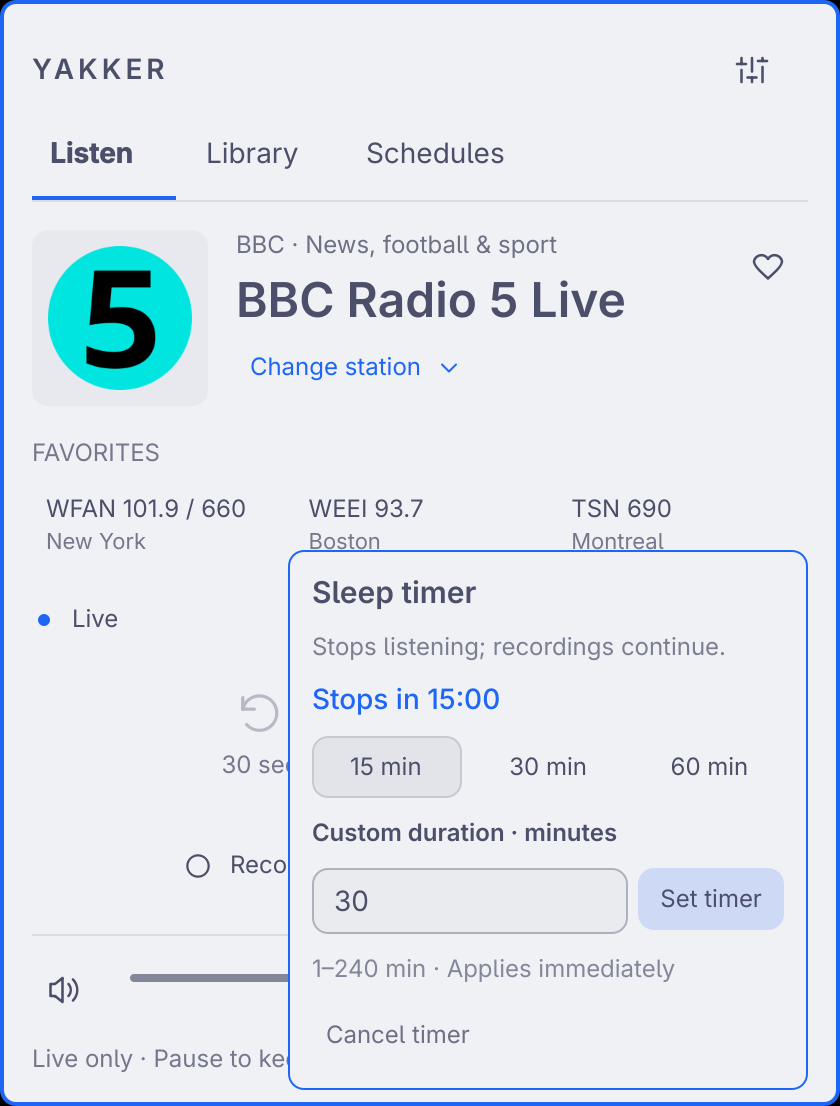
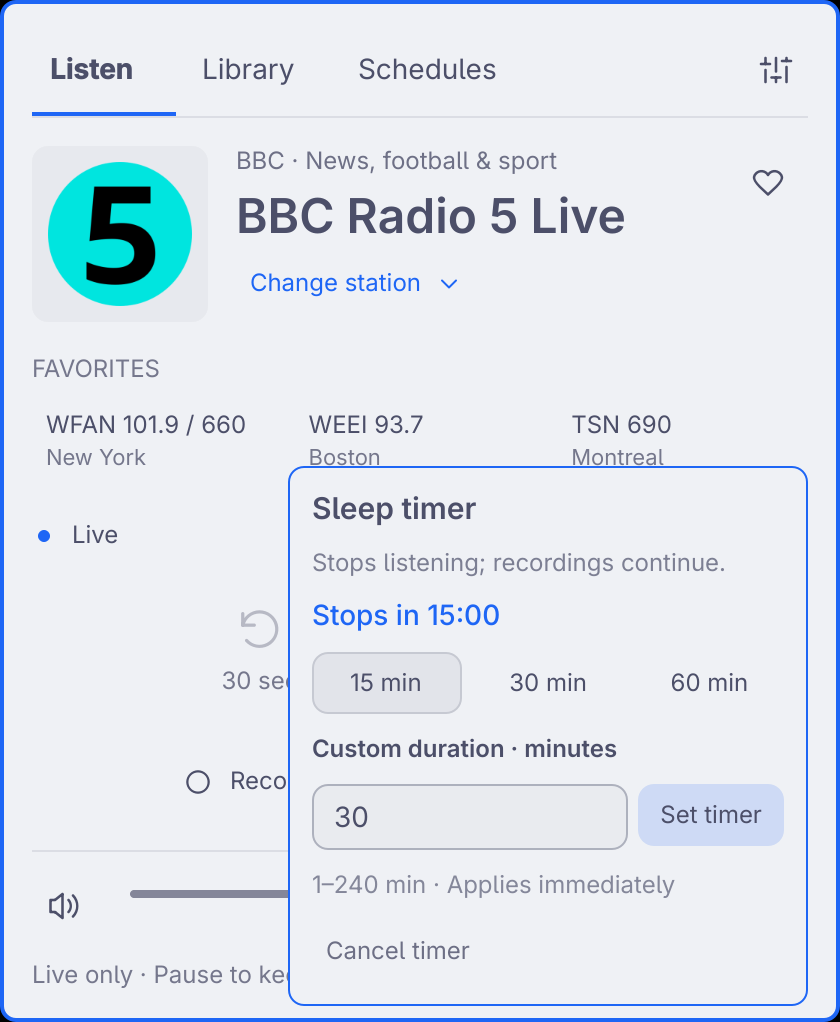
Start the player with navigation tabs and move Settings into the tab row

diff --git a/Panel.qml b/Panel.qml
@@ -93,6 +93,13 @@ Ui.Panel {
     opacity: enabled ? 1 : 0.35
     onClicked: root.togglePlayback()
   }
+  component SettingsControl: Radio.FocusButton {
+    width: Style.space(32)
+    height: Style.space(32)
+    foreground: root.barForeground
+    hasCursor: root.virtualFocus && root.cursor === 4
+    onHovered: hovered => { if (hovered) { root.keyboardNavigation = false; root.cursor = 4 } }
+  }
   component NavigationTab: Radio.FocusButton {
     property int cursorId: -1
     function traverse(direction, event) {
@@ -277,9 +284,10 @@ Ui.Panel {
   function advanceCursor(direction) {
     keyboardNavigation = true
     keyCatcher.forceActiveFocus()
-    let order = [4,20,14,21]
+    let order = [20,14,21,4]
     if (settingsOpen) {
       order = [4,30,31,32,33]
+      if (captureIndicator.visible) order.unshift(58)
       if (settingsTab === "listening") order = order.concat([40,41,42,43])
       if (dockBack.enabled) order.push(54)
       if (dockPlay.enabled) order.push(55)
@@ -315,10 +323,10 @@ Ui.Panel {
     Qt.callLater(ensureCursorVisible)
   }
   function ensureCursorVisible() {
-    const targets = [stationPicker, playButton, volumeSlider, muteButton, settingsButton,
+    const targets = [stationPicker, playButton, volumeSlider, muteButton, root.settingsOpen ? settingsCloseButton : settingsButton,
                      bufferPicker, stopButton, backButton, forwardButton, liveButton,
                      addStationButton, addStationButton, deleteStationButton, favoriteButton, recordingsButton, fileTimeline, returnLiveButton, addStationButton, speedPicker, sleepButton, listenButton, schedulesButton, timelineSlider, recordNowButton, addStationButton]
-    ensureItemVisible(cursor >= 54 && cursor <= 57 ? [dockBack, dockPlay, dockForward, dockStop][cursor - 54] : cursor === 53 ? dockRetry : cursor >= 50 && cursor <= 52 ? [connectionState.primaryControl, connectionState.secondaryControl, connectionState.detailsControl][cursor - 50] : cursor >= 40 && cursor <= 43 ? bufferPresets.itemAt(cursor - 40) : cursor >= 100 ? presetRepeater.itemAt(cursor - 100) : cursor >= 30 && cursor <= 33 ? settingsTabs.itemAt(cursor - 30) : targets[cursor])
+    ensureItemVisible(cursor === 58 ? captureIndicator : cursor >= 54 && cursor <= 57 ? [dockBack, dockPlay, dockForward, dockStop][cursor - 54] : cursor === 53 ? dockRetry : cursor >= 50 && cursor <= 52 ? [connectionState.primaryControl, connectionState.secondaryControl, connectionState.detailsControl][cursor - 50] : cursor >= 40 && cursor <= 43 ? bufferPresets.itemAt(cursor - 40) : cursor >= 100 ? presetRepeater.itemAt(cursor - 100) : cursor >= 30 && cursor <= 33 ? settingsTabs.itemAt(cursor - 30) : targets[cursor])
   }
   function ensureItemVisible(item) {
     scrollTarget = item
@@ -361,6 +369,7 @@ Ui.Panel {
     else if (cursor === 21) openSchedules()
     else if (cursor === 23) recordNow()
     else if (cursor === 24) backFromSettings()
+    else if (cursor === 58 && settingsOpen && captureIndicator.visible) captureIndicator.clicked()
     else if (cursor >= 54 && cursor <= 57 && auxiliaryView) {
       const target = [dockBack, dockPlay, dockForward, dockStop][cursor - 54]
       if (target.enabled) target.clicked()
@@ -481,34 +490,20 @@ Ui.Panel {
           width: parent.width
           spacing: Style.space(4)
           Row {
+            visible: root.settingsOpen
             width: parent.width
             spacing: Style.space(8)
-            Row {
-              width: parent.width - captureIndicator.width - settingsButton.width - parent.spacing * 2
+            Text {
+              id: settingsSectionTitle
+              width: parent.width - settingsCloseButton.width - (captureIndicator.visible ? captureIndicator.width + parent.spacing * 2 : parent.spacing)
               anchors.verticalCenter: parent.verticalCenter
-              spacing: Style.space(10)
-              Text {
-                id: appTitle
-                text: "YAKKER"
-                font.letterSpacing: Style.space(2)
-                textFormat: Text.PlainText
-                color: root.barForeground
-                font.family: root.uiFontFamily
-                font.pixelSize: Style.fontPx(1.167)
-                font.weight: Font.DemiBold
-              }
-              Text {
-                id: settingsSectionTitle
-                visible: root.settingsOpen
-                width: Math.max(0, parent.width - appTitle.width - parent.spacing)
-                text: "· Settings"
-                textFormat: Text.PlainText
-                color: Qt.alpha(root.barForeground, 0.8)
-                font.family: root.uiFontFamily
-                font.pixelSize: Style.fontPx(1.167)
-                font.weight: Font.Medium
-                elide: Text.ElideRight
-              }
+              text: "Settings"
+              textFormat: Text.PlainText
+              color: root.barForeground
+              font.family: root.uiFontFamily
+              font.pixelSize: Style.fontPx(1.333)
+              font.weight: Font.DemiBold
+              elide: Text.ElideRight
             }
             Radio.FocusButton {
               id: captureIndicator
@@ -518,27 +513,25 @@ Ui.Panel {
               fontSize: Style.fontPx(1)
               foreground: Commons.Color.urgent
               tooltipText: "Background captures · Open recordings"
-              focusable: root.auxiliaryView
+              focusable: true
+              hasCursor: root.virtualFocus && root.cursor === 58
+              onHovered: hovered => { if (hovered) { root.keyboardNavigation = false; root.cursor = 58 } }
               onClicked: root.openRecordings(false)
             }
-            Radio.FocusButton {
-              id: settingsButton
-              iconName: root.settingsOpen ? "close" : "settings"
-              tooltipText: root.settingsOpen ? "Close settings" : "Open settings"
-              Accessible.role: Accessible.Button
-              Accessible.name: tooltipText
-              foreground: root.barForeground
-              selected: root.settingsOpen
-              focusable: root.auxiliaryView
-              hasCursor: root.virtualFocus && root.cursor === 4
-              onHovered: hovered => { if (hovered) { root.keyboardNavigation = false; root.cursor = 4 } }
-              onClicked: root.settingsOpen ? root.closeSettings() : root.openSettings()
+            SettingsControl {
+              id: settingsCloseButton
+              iconName: "close"
+              tooltipText: "Close settings"
+              selected: true
+              focusable: true
+              onClicked: root.closeSettings()
             }
           }
           Row {
+            id: mainNavigation
             visible: !root.settingsOpen
             width: parent.width
-            spacing: Style.space(6)
+            spacing: Style.space(4)
             NavigationTab {
               id: listenButton
               cursorId: 20
@@ -568,6 +561,13 @@ Ui.Panel {
               hasCursor: root.virtualFocus && root.cursor === 14
               onHovered: hovered => { if (hovered) { root.keyboardNavigation = false; root.cursor = 14 } }
               onClicked: root.openRecordings(false)
+              Rectangle {
+                visible: Number(root.radio.recordings.activeCount) > 0
+                width: Style.space(5); height: width; radius: width / 2
+                anchors.right: parent.right; anchors.rightMargin: Style.space(5)
+                anchors.top: parent.top; anchors.topMargin: Style.space(6)
+                color: Commons.Color.urgent
+              }
             }
             NavigationTab {
               id: schedulesButton
@@ -582,6 +582,18 @@ Ui.Panel {
               hasCursor: root.virtualFocus && root.cursor === 21
               onHovered: hovered => { if (hovered) { root.keyboardNavigation = false; root.cursor = 21 } }
               onClicked: root.openSchedules()
+            }
+            Item {
+              width: Math.max(0, parent.width - listenButton.width - recordingsButton.width - schedulesButton.width - settingsButton.width - parent.spacing * 4)
+              height: 1
+            }
+            SettingsControl {
+              id: settingsButton
+              anchors.verticalCenter: parent.verticalCenter
+              iconName: "settings"
+              tooltipText: "Open settings"
+              focusable: root.auxiliaryView
+              onClicked: root.openSettings()
             }
           }
           Row {

diff --git a/tools/qml-smoke/recordings.qml b/tools/qml-smoke/recordings.qml
@@ -154,7 +154,7 @@ ShellRoot {
       }
       function checkPlaybackStates() {
         const radio = panel.radio
-        const keys = ["wanted","paused","playbackState","playbackKind","bufferMinutes","temporaryBuffer","dvr","position","bufferStart","bufferEnd","bufferExpired","station","stationId","sleepRemaining","duration"]
+        const keys = ["wanted","paused","playbackState","playbackKind","bufferMinutes","temporaryBuffer","dvr","position","bufferStart","bufferEnd","bufferExpired","station","stationId","sleepRemaining","duration","recordings"]
         const saved = keys.map(function(key) { return radio[key] })
         try {
           radio.station = radio.stations.find(function(station) { return station.id === "tsn-690" })
@@ -176,6 +176,14 @@ ShellRoot {
           compare(panel.testDockStatus.text, "Paused · buffering")
           verify(!panel.testDockStatus.truncated, "The compact player hides the buffering state")
           capture("paused-buffering-dock-small")
+          radio.recordings = Object.assign({}, radio.recordings, {activeCount:1})
+          panel.testCatcher.forceActiveFocus(); panel.cursor = 4
+          keyClick(Qt.Key_Backtab); compare(panel.cursor, 58)
+          keyClick(Qt.Key_Return)
+          verify(panel.recordingsOpen && !panel.settingsOpen, "Settings recording indicator did not open Library")
+          verify(radio.wanted && radio.paused, "Header navigation interrupted paused playback")
+          panel.openSettings(); wait(50)
+          capture("settings-capture-small")
           radio.bufferExpired = true
           verify(panel.testPlaybackHint.text.indexOf("Earlier audio expired") >= 0, "Expired replay still promises the original paused position")
           radio.bufferExpired = false
@@ -315,7 +323,7 @@ ShellRoot {
           keyClick(Qt.Key_Left)
           tryVerify(function() { return !panel.recordingsOpen && panel.testCatcher.activeFocus }, 2000)
           compare(panel.radio.volume, navigationVolume, "Tab arrows changed volume")
-          panel.cursor = -1; keyClick(Qt.Key_Tab); compare(panel.cursor, 4)
+          panel.cursor = -1; keyClick(Qt.Key_Tab); compare(panel.cursor, 20)
           panel.cursor = -1; keyClick(Qt.Key_Backtab); compare(panel.cursor, 2)
           const navigationMuted = panel.radio.muted
           keyClick(Qt.Key_M, Qt.ControlModifier)
@@ -409,7 +417,7 @@ ShellRoot {
           mouseMove(panel, panel.width - 2, panel.height - 2)
           tryVerify(function() { return !panel.testSchedulesButton.hot }, 2000, "The tab hover stuck after the pointer left")
           keyClick(Qt.Key_Tab)
-          compare(panel.cursor, 0); verify(panel.testStationPicker.hasCursor, "Keyboard focus did not return after mouse hover")
+          compare(panel.cursor, 4); verify(panel.testSettingsButton.hasCursor, "Keyboard focus did not return after mouse hover")
           panel.testListenButton.forceActiveFocus(); panel.cursor = 20
           keyClick(Qt.Key_Tab)
           verify(panel.testCatcher.activeFocus && panel.testRecordingsButton.hasCursor, "Tab left focus painted on the previous control")
@@ -750,9 +758,9 @@ ShellRoot {
           wait(100); keyClick(Qt.Key_Escape); verify(!panel.recordingsOpen, "Second Escape did not return to player")
           panel.testSettingsButton.clicked()
           verify(panel.settingsOpen && panel.testSettings.visible && !panel.testPlayerView.visible)
-          compare(panel.testSectionTitle.text, "· Settings")
+          compare(panel.testSectionTitle.text, "Settings")
           compare(panel.testSettingsTabs.count, 4)
-          compare(panel.testSettingsButton.iconName, "close")
+          compare(panel.testSettingsClose.iconName, "close")
           const settingsVolume = panel.radio.volume
           panel.testSettingsTabs.itemAt(0).forceActiveFocus(); panel.cursor = 30
           keyClick(Qt.Key_Right)
@@ -849,7 +857,7 @@ ShellRoot {
           tryVerify(function() { var y = panel.testView.testStorageSave.mapToItem(panel, 0, 0).y; return y >= 0 && y + panel.testView.testStorageSave.height <= panel.testDock.mapToItem(panel, 0, 0).y }, 2000)
           capture("storage-small")
           window.height = 650; window.width = 420
-          panel.testSettingsButton.clicked(); verify(!panel.settingsOpen && !panel.recordingsOpen)
+          panel.testSettingsClose.clicked(); verify(!panel.settingsOpen && !panel.recordingsOpen)
           panel.openSchedules(); panel.openSettings(); panel.selectSettingsTab("alerts")
           panel.testSettingsButton.clicked()
           verify(panel.recordingsOpen && panel.testView.tab === "schedules", "X lost the previous main section")

diff --git a/tools/test-recordings-ui.py b/tools/test-recordings-ui.py
@@ -74,6 +74,7 @@ def main():
   property alias testPlayerView: playerView
   property alias testSectionTitle: settingsSectionTitle
   property alias testSettingsButton: settingsButton
+  property alias testSettingsClose: settingsCloseButton
   property alias testDock: playbackDock
   property alias testDockPlay: dockPlay
   property alias testDockBack: dockBack

diff --git a/README.md b/README.md
@@ -142,7 +142,7 @@ Short titles stay still; reduced-motion mode uses an ellipsis and a full-title
 tooltip instead. Preset and playback dock titles also stay on one line, without
 independent animations; playback status can wrap to keep paused/stopped states
 readable. The player includes up to six favorite presets in the order you added them. The **Listen**, **Library**,
-and **Schedules** tabs stay at the top. **Rewind · Play/Pause · Forward** form the
+and **Schedules** tabs form the first row, with Settings at the right edge. **Rewind · Play/Pause · Forward** form the
 main transport row, with a larger Play/Pause control; **Record**, **Stop**, and
 **Sleep** sit below it, with Stop centered beneath Play/Pause. Rewind and forward
 skip 30 seconds and dim when unavailable. **Play/Pause** pauses or resumes
@@ -309,7 +309,9 @@ captures and does not create a repeating schedule.
 Up to **three recordings** can run at once, including while you listen to another
 station. Closing the popup, stopping foreground audio, changing stations, or
 playing a saved recording leaves those captures running. The bar dot turns red
-while capturing; a **REC** indicator in the player header shows the active count and opens the library. The machine must be awake
+while capturing; a recording dot on the **Library** tab marks active captures.
+The Library tooltip shows the count, and Settings keeps a **REC** count that opens
+the library. The machine must be awake
 with the plugin loaded in the bar. Disabling/removing the last widget, restarting
 the shell, or shutting down the helper interrupts captures. Recoverable output is
 retained as partial; when the plugin returns during the scheduled interval it can
@@ -493,7 +495,7 @@ This is a plain line-oriented CLI; each command requires Enter.
 
 ## Settings and stations
 
-The gear opens **YAKKER · Settings**, with four tabs: **Listening**, **Storage**,
+The gear opens **Settings**, with four tabs: **Listening**, **Storage**,
 **Alerts**, and **Stations**. Listening shows the Live only / 5 / 15 / 30 minute
 buffer choices directly, with an explanation of the selected mode and a compact
 two-column keyboard shortcut reference. Each tab replaces the content below it; the playback
